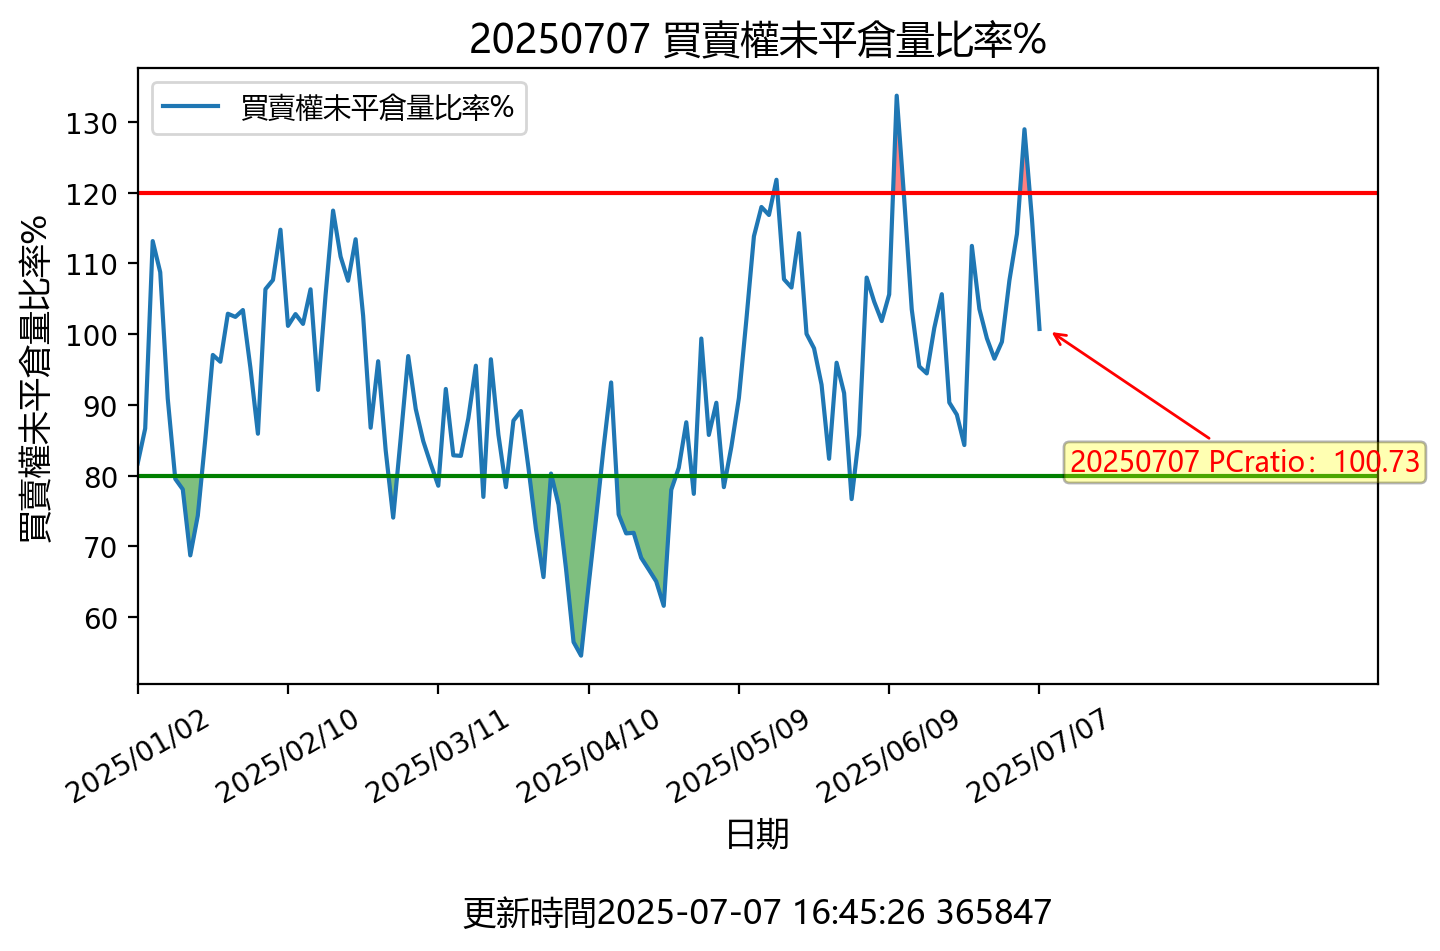
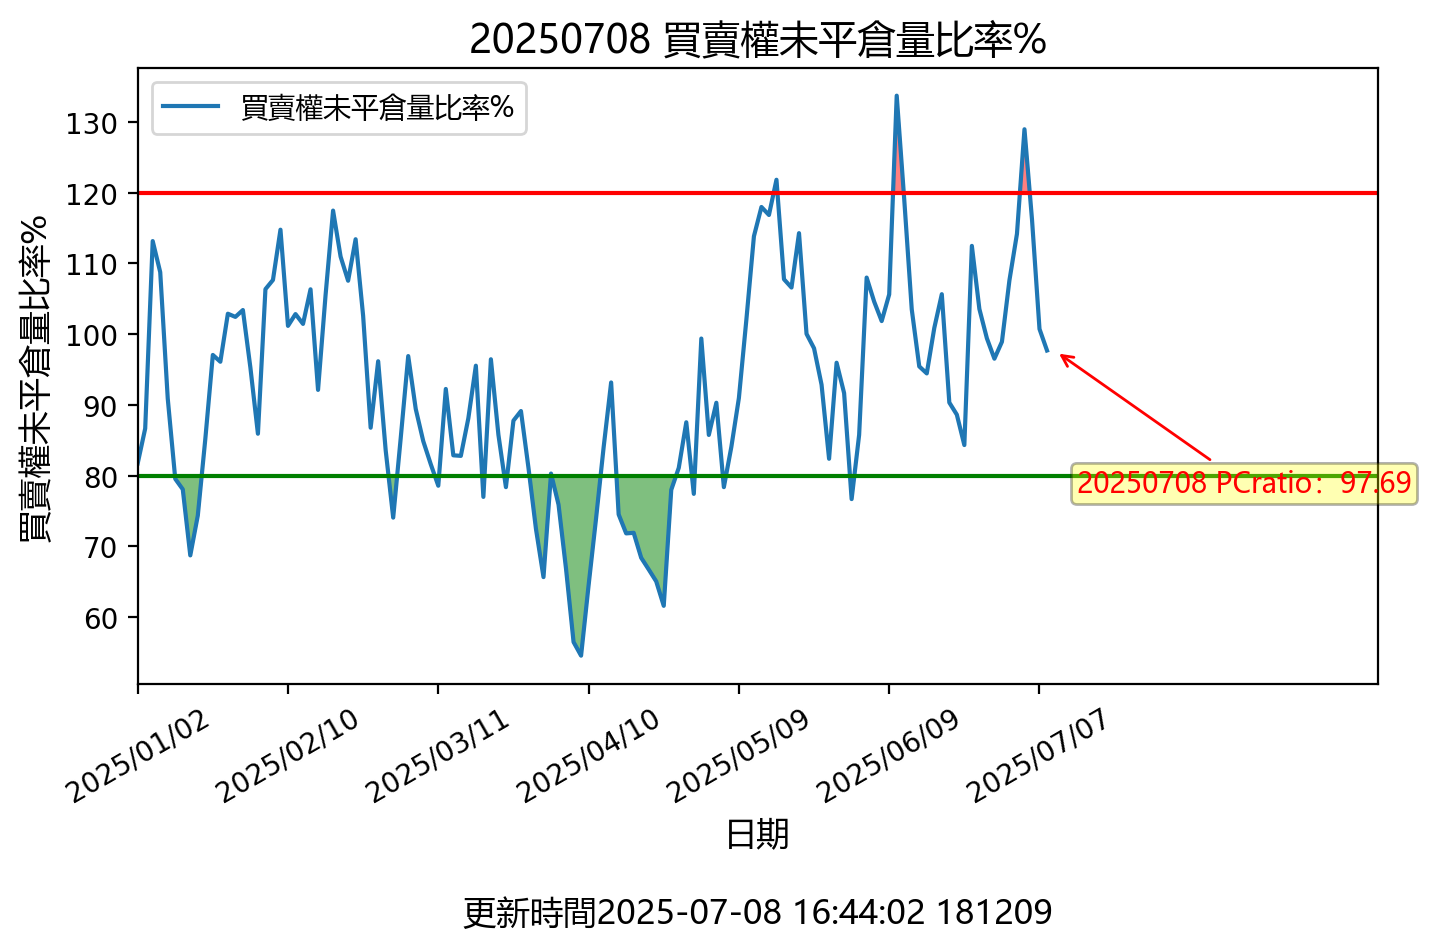
更新時間: Tue Jul  8 16:44:20 CST 2025

diff --git a/README.md b/README.md
@@ -1,12 +1,12 @@
-## 20250707 台指期「預估換倉成本」
+## 20250708 台指期「預估換倉成本」
 ![](images/txfcost.png)
 
-## 20250707 台指期「散戶小台多空比」
+## 20250708 台指期「散戶小台多空比」
 ![](images/bbiri.png)
 
-## 20250707 台指選擇權「Put/Call Ratios」
+## 20250708 台指選擇權「Put/Call Ratios」
 ![](images/pcratio.png)
 
-## 20250707 台指期「大額交易人」
+## 20250708 台指期「大額交易人」
 ![](images/blocktrade.png)
 
